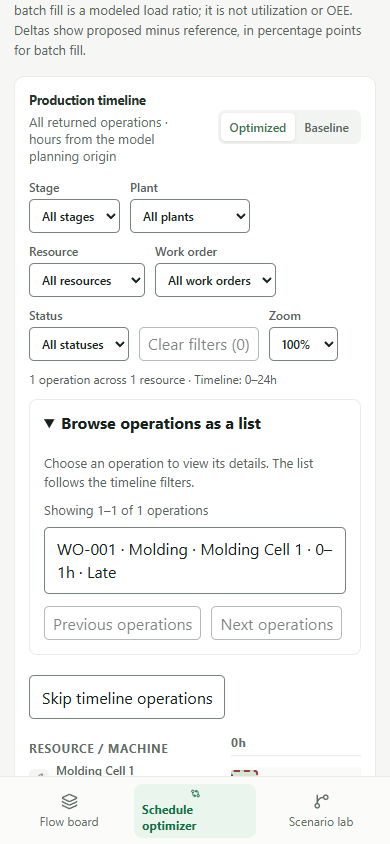
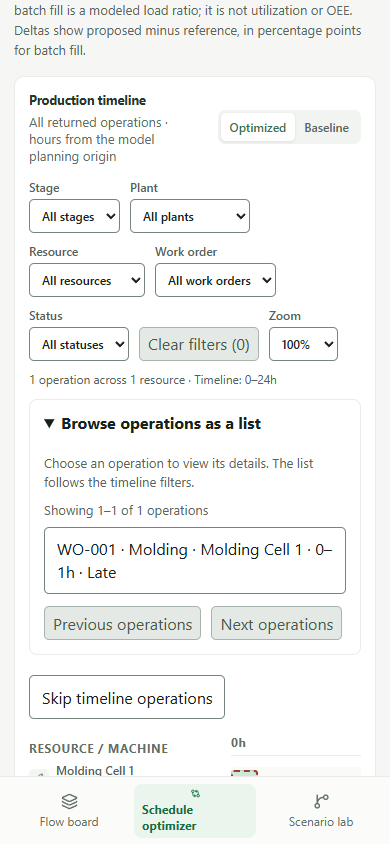
Improve disabled timeline controls

Changed region(s): [[0.0923, 0.7085, 0.8923, 0.7701], [0.3385, 0.3697, 0.6769, 0.4313]]

diff --git a/frontend/src/styles.css b/frontend/src/styles.css
@@ -28,6 +28,9 @@
   --stage-5-ink: #845456;
   --gantt-label: #546258;
   --control-border: #77847a;
+  --disabled-ink: #485b4d;
+  --disabled-surface: #e4e9e5;
+  --disabled-border: #a9b5ac;
   --green: #13834e;
   --green-dark: #0c6e3e;
   --mint: #e7f5eb;
@@ -421,9 +424,9 @@ a {
 .primary-button:disabled,
 .secondary-button:disabled {
   opacity: 1;
-  color: #485b4d;
-  background: #e4e9e5;
-  border-color: #a9b5ac;
+  color: var(--disabled-ink);
+  background: var(--disabled-surface);
+  border-color: var(--disabled-border);
   box-shadow: none;
 }
 .text-button,

diff --git a/frontend/src/Gantt.css b/frontend/src/Gantt.css
@@ -26,7 +26,10 @@
   cursor: pointer;
 }
 .gantt-controls button:disabled {
-  opacity: 0.55;
+  opacity: 1;
+  color: var(--disabled-ink);
+  background: var(--disabled-surface);
+  border-color: var(--disabled-border);
   cursor: not-allowed;
 }
 .gantt-skip {

diff --git a/frontend/docs/FRONTEND_IMPLEMENTATION_HANDOFF.md b/frontend/docs/FRONTEND_IMPLEMENTATION_HANDOFF.md
@@ -147,3 +147,4 @@ The final responsive pass checked all three populated screens at 320, 390, 768, 
 - Repeated surface, text, border, and accent colors now use shared CSS tokens with their original values. Lint, build, and the synthetic Edge walkthrough passed. A complete token and contrast audit remains open.
 
 - Disabled primary and secondary actions now use a muted surface with readable text instead of fading the whole control. The synthetic Edge walkthrough covered an invalid scenario and saved `screenshots/scenario-disabled-mobile.png`; the screenshot was inspected. Other disabled control types still need the full-state contrast review.
+- Gantt filter and pagination buttons now share the readable disabled-control colors. The synthetic Edge walkthrough passed, and the updated `screenshots/gantt-list-mobile.png` was inspected.
